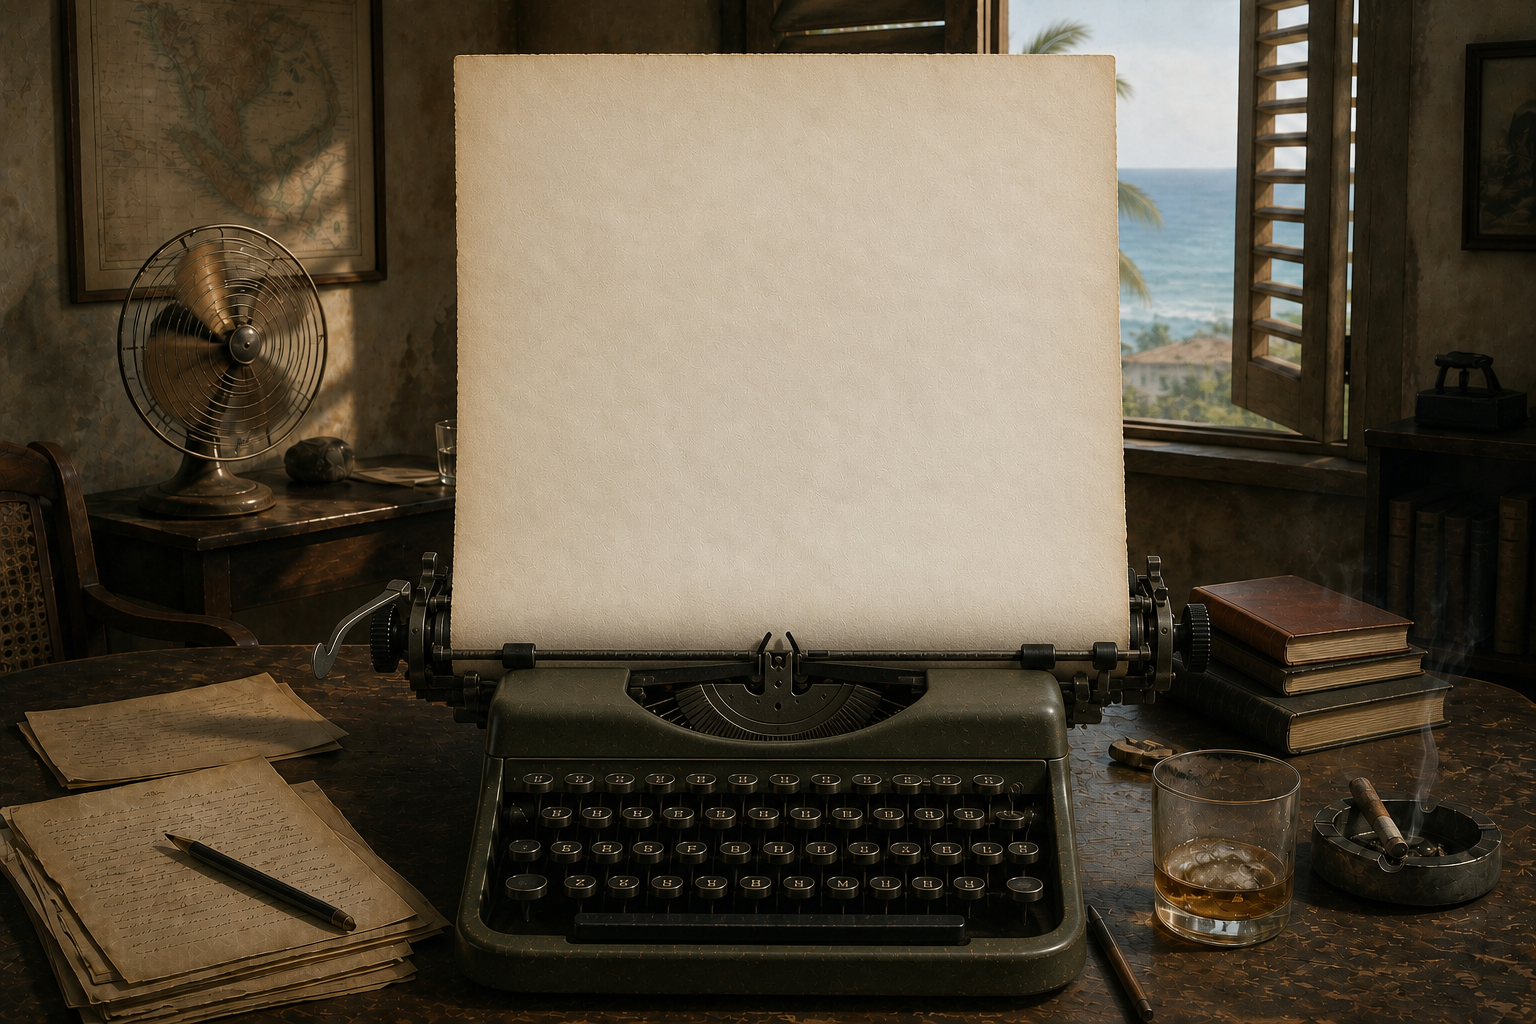
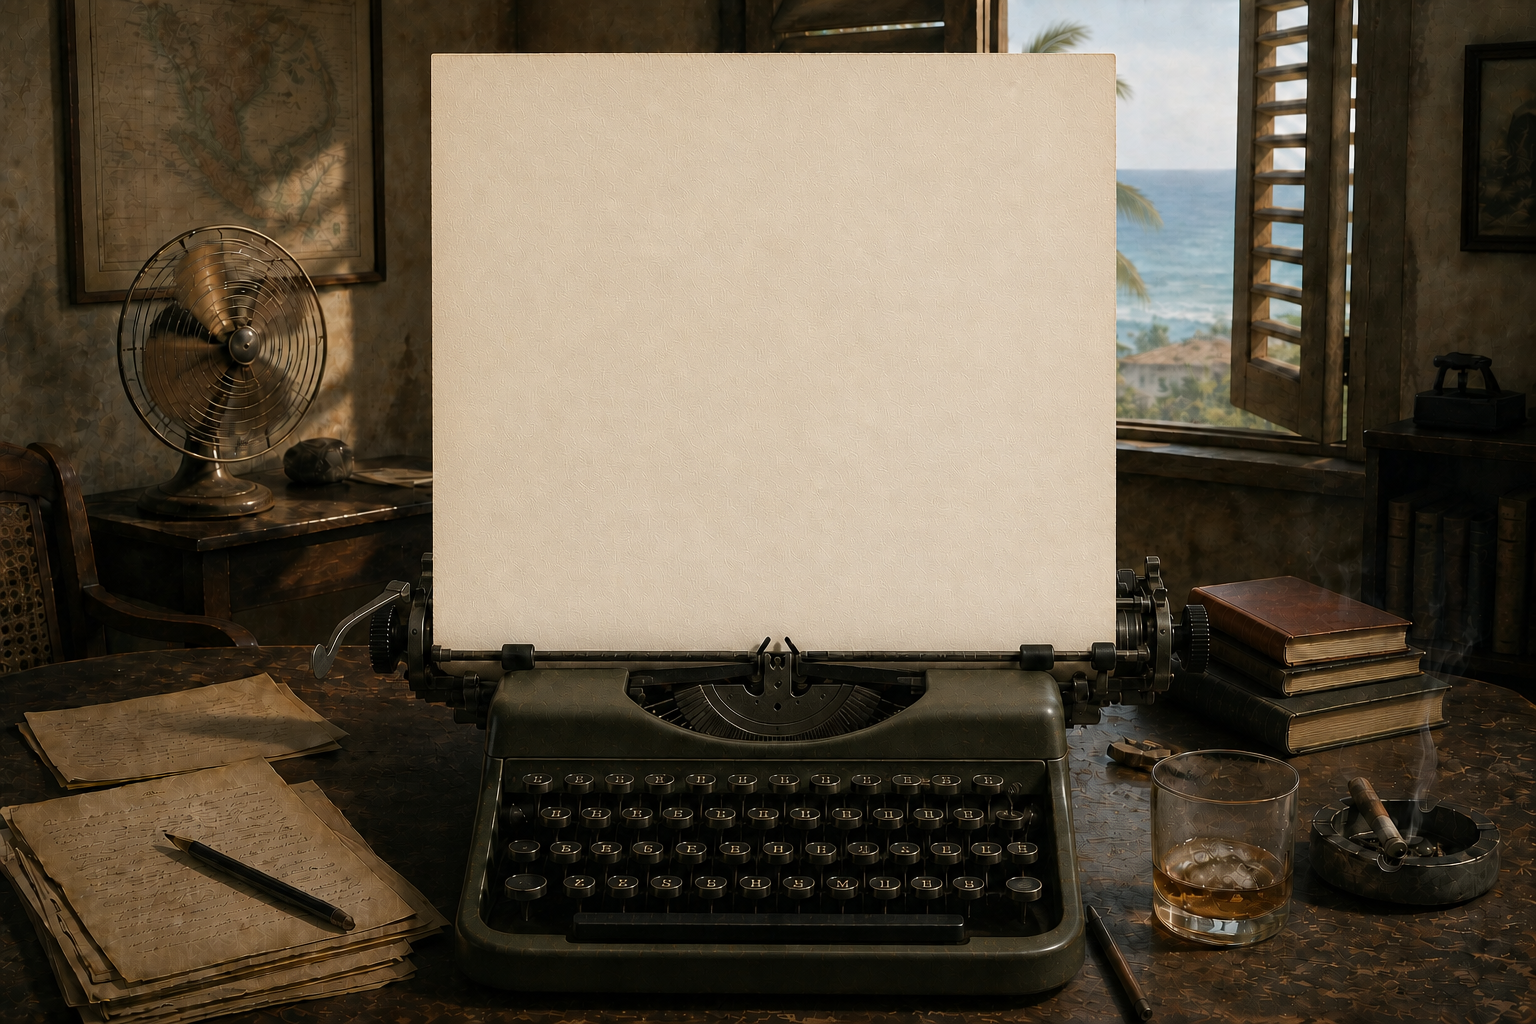
Refine immersive writing worlds

diff --git a/Sources/HelloWord/MainViewController.swift b/Sources/HelloWord/MainViewController.swift
@@ -97,6 +97,11 @@ final class MainViewController: NSViewController, NSTextViewDelegate, NSWindowDe
 
     override func viewDidAppear() {
         super.viewDidAppear()
+        // Applying the first room before the window has real bounds can leave the
+        // backdrop's display pass showing its construction-time placeholder.
+        // Re-assert it now that the window is visible, without touching the document.
+        applyTheme(currentTheme.id, restyleText: false)
+        backdrop.needsDisplay = true
         view.window?.makeFirstResponder(textView)
         if hasShownSplash {
             revealHUD(for: 4.5)
@@ -398,7 +403,7 @@ final class MainViewController: NSViewController, NSTextViewDelegate, NSWindowDe
     }
 
     private func prepareThemedMenu(_ menu: NSMenu, minimumWidth: CGFloat = 272) {
-        let dark = [.dos, .library, .spaceAge, .cyberdeck, .hell].contains(currentTheme.id)
+        let dark = [.dos, .spaceAge, .cyberdeck, .hell].contains(currentTheme.id)
         menu.appearance = NSAppearance(named: dark ? .darkAqua : .aqua)
         menu.minimumWidth = minimumWidth
         for item in menu.items {
@@ -653,7 +658,7 @@ final class MainViewController: NSViewController, NSTextViewDelegate, NSWindowDe
         let shadow = NSShadow()
         shadow.shadowOffset = .zero
         switch id {
-        case .library, .spaceAge, .hell:
+        case .spaceAge, .hell:
             shadow.shadowColor = NSColor.black.withAlphaComponent(0.86)
             shadow.shadowBlurRadius = 5
             return shadow
@@ -672,7 +677,7 @@ final class MainViewController: NSViewController, NSTextViewDelegate, NSWindowDe
         glassControl.isHidden = currentTheme.id != .liquidGlass
 
         let pixel = currentTheme.id == .mac1999 || currentTheme.id == .system95 || currentTheme.id == .dos
-        let dark = currentTheme.id == .dos || currentTheme.id == .library || currentTheme.id == .spaceAge || currentTheme.id == .cyberdeck || currentTheme.id == .hell
+        let dark = currentTheme.id == .dos || currentTheme.id == .spaceAge || currentTheme.id == .cyberdeck || currentTheme.id == .hell
         hud.appearance = NSAppearance(named: dark ? .darkAqua : .aqua)
         hud.blendingMode = currentTheme.id == .liquidGlass ? .behindWindow : .withinWindow
         hud.state = .active
@@ -710,10 +715,10 @@ final class MainViewController: NSViewController, NSTextViewDelegate, NSWindowDe
             border = NSColor(calibratedRed: 0.25, green: 0.12, blue: 0.045, alpha: 1)
             buttonFill = NSColor(calibratedRed: 0.94, green: 0.86, blue: 0.68, alpha: 1)
         case .library:
-            foreground = NSColor(calibratedRed: 1, green: 0.78, blue: 0.36, alpha: 1)
-            panel = NSColor(calibratedRed: 0.035, green: 0.105, blue: 0.068, alpha: 0.93)
-            border = foreground.withAlphaComponent(0.50)
-            buttonFill = NSColor(calibratedRed: 0.08, green: 0.20, blue: 0.13, alpha: 1)
+            foreground = NSColor(calibratedRed: 0.20, green: 0.12, blue: 0.06, alpha: 1)
+            panel = NSColor(calibratedRed: 0.91, green: 0.79, blue: 0.57, alpha: 0.91)
+            border = NSColor(calibratedRed: 0.43, green: 0.27, blue: 0.12, alpha: 0.76)
+            buttonFill = NSColor(calibratedRed: 0.97, green: 0.89, blue: 0.72, alpha: 0.96)
         case .spaceAge:
             foreground = NSColor(calibratedRed: 1, green: 0.72, blue: 0.28, alpha: 1)
             panel = NSColor(calibratedRed: 0.035, green: 0.12, blue: 0.15, alpha: 0.94)
@@ -1342,10 +1347,30 @@ final class MainViewController: NSViewController, NSTextViewDelegate, NSWindowDe
     private func updateEditorVerticalBounds() {
         guard let top = editorTopConstraint, let bottom = editorBottomConstraint else { return }
         if currentTheme.id == .typewriter {
-            // The editor is clipped to the real sheet held in the platen. It cannot
-            // descend into the keys or float above the paper when the window resizes.
-            top.constant = max(54, backdrop.bounds.height * 0.09)
-            bottom.constant = -max(250, backdrop.bounds.height * 0.39)
+            // The art is aspect-filled, so its vertical crop changes with the window.
+            // Map the upright paper rectangle from the 1536 x 1024 source into the
+            // visible crop, then keep the editor just inside the actual sheet.
+            let targetWidth = max(1, backdrop.bounds.width)
+            let targetHeight = max(1, backdrop.bounds.height)
+            let targetAspect = targetWidth / targetHeight
+            let sourceWidth: CGFloat = 1536
+            let sourceHeight: CGFloat = 1024
+            let sourceAspect = sourceWidth / sourceHeight
+            var visibleOriginY: CGFloat = 0
+            var visibleHeight = sourceHeight
+            if sourceAspect < targetAspect {
+                visibleHeight = sourceWidth / targetAspect
+                visibleOriginY = (sourceHeight - visibleHeight) * 0.5
+            }
+
+            // Source coordinates are AppKit-style here (origin at bottom-left).
+            let paperBottom: CGFloat = 374
+            let paperTop: CGFloat = 971
+            let mappedBottom = (paperBottom - visibleOriginY) / visibleHeight * targetHeight
+            let mappedTop = (paperTop - visibleOriginY) / visibleHeight * targetHeight
+            let safeEdge: CGFloat = 8
+            top.constant = max(0, targetHeight - mappedTop) + safeEdge
+            bottom.constant = -(max(0, mappedBottom) + safeEdge)
         } else {
             top.constant = 42
             bottom.constant = -42
@@ -1558,12 +1583,12 @@ private struct EraMenuPalette {
             )
         case .library:
             return EraMenuPalette(
-                panel: NSColor(calibratedRed: 0.025, green: 0.075, blue: 0.050, alpha: 1),
-                hover: NSColor(calibratedRed: 0.12, green: 0.28, blue: 0.16, alpha: 1),
-                text: NSColor(calibratedRed: 0.96, green: 0.86, blue: 0.61, alpha: 1),
-                hoverText: NSColor(calibratedRed: 1, green: 0.91, blue: 0.68, alpha: 1),
-                accent: NSColor(calibratedRed: 0.92, green: 0.65, blue: 0.25, alpha: 1),
-                border: NSColor(calibratedRed: 0.52, green: 0.35, blue: 0.13, alpha: 0.82)
+                panel: NSColor(calibratedRed: 0.95, green: 0.87, blue: 0.70, alpha: 1),
+                hover: NSColor(calibratedRed: 0.48, green: 0.31, blue: 0.14, alpha: 1),
+                text: NSColor(calibratedRed: 0.19, green: 0.115, blue: 0.060, alpha: 1),
+                hoverText: NSColor(calibratedRed: 1, green: 0.95, blue: 0.82, alpha: 1),
+                accent: NSColor(calibratedRed: 0.47, green: 0.27, blue: 0.09, alpha: 1),
+                border: NSColor(calibratedRed: 0.43, green: 0.27, blue: 0.12, alpha: 0.82)
             )
         case .spaceAge:
             return EraMenuPalette(
@@ -1606,11 +1631,12 @@ private struct EraMenuPalette {
 }
 
 private final class EraMenuItemView: NSView {
+    private static weak var activeHover: EraMenuItemView?
     private weak var item: NSMenuItem?
     private let theme: WritingTheme
     private let palette: EraMenuPalette
     private var tracking: NSTrackingArea?
-    private var isHovered = false {
+    fileprivate var isHovered = false {
         didSet { needsDisplay = true }
     }
     var onInvoke: ((NSMenuItem) -> Void)?
@@ -1630,16 +1656,30 @@ private final class EraMenuItemView: NSView {
     override func updateTrackingAreas() {
         super.updateTrackingAreas()
         if let tracking { removeTrackingArea(tracking) }
-        let next = NSTrackingArea(rect: bounds, options: [.mouseEnteredAndExited, .activeAlways], owner: self, userInfo: nil)
+        let next = NSTrackingArea(rect: bounds, options: [.mouseEnteredAndExited, .activeInKeyWindow, .inVisibleRect], owner: self, userInfo: nil)
         addTrackingArea(next)
         tracking = next
     }
 
-    override func mouseEntered(with event: NSEvent) { isHovered = true }
-    override func mouseExited(with event: NSEvent) { isHovered = false }
+    override func viewDidMoveToSuperview() {
+        super.viewDidMoveToSuperview()
+        if superview == nil { clearHover() }
+    }
+
+    override func mouseEntered(with event: NSEvent) {
+        guard Self.activeHover !== self else { return }
+        Self.activeHover?.isHovered = false
+        Self.activeHover = self
+        isHovered = true
+    }
+
+    override func mouseExited(with event: NSEvent) {
+        clearHover()
+    }
 
     override func mouseUp(with event: NSEvent) {
         guard let item, item.isEnabled else { return }
+        clearHover()
         if let onInvoke {
             onInvoke(item)
             return
@@ -1647,6 +1687,11 @@ private final class EraMenuItemView: NSView {
         guard let action = item.action else { return }
         item.menu?.cancelTracking()
         _ = NSApp.sendAction(action, to: item.target, from: item)
+    }
+
+    private func clearHover() {
+        isHovered = false
+        if Self.activeHover === self { Self.activeHover = nil }
     }
 
     override func draw(_ dirtyRect: NSRect) {

diff --git a/Sources/HelloWord/BackdropView.swift b/Sources/HelloWord/BackdropView.swift
@@ -205,6 +205,7 @@ final class BackdropView: NSView {
     // MARK: - Complete writing worlds
 
     private func drawCalm() {
+        if drawWorldArt(named: "Still") { return }
         let night = NSColor(calibratedRed: 0.16, green: 0.23, blue: 0.27, alpha: 1)
         let dawn = NSColor(calibratedRed: 0.73, green: 0.62, blue: 0.48, alpha: 1)
         let paperLight = NSColor(calibratedRed: 0.93, green: 0.84, blue: 0.68, alpha: 1)
@@ -417,7 +418,23 @@ final class BackdropView: NSView {
     }
 
     private func drawLibrary() {
-        if drawWorldArt(named: "Midnight Library") { return }
+        if drawWorldArt(named: "Midnight Library") {
+            // The room remains recognisable at the perimeter, while a quiet ivory
+            // atmosphere keeps shelves and furniture from competing with prose.
+            NSColor(calibratedRed: 1, green: 0.965, blue: 0.88, alpha: 0.11).setFill()
+            bounds.fill()
+            let writingAir = NSRect(
+                x: bounds.width * 0.18,
+                y: bounds.height * 0.055,
+                width: bounds.width * 0.64,
+                height: bounds.height * 0.89
+            )
+            NSGradient(colors: [
+                NSColor(calibratedRed: 1, green: 0.975, blue: 0.91, alpha: 0.20),
+                NSColor(calibratedRed: 1, green: 0.96, blue: 0.86, alpha: 0.085)
+            ])?.draw(in: writingAir, relativeCenterPosition: .zero)
+            return
+        }
         let blackGreen = NSColor(calibratedRed: 0.008, green: 0.025, blue: 0.021, alpha: 1)
         let warmWood = NSColor(calibratedRed: 0.15, green: 0.072, blue: 0.035, alpha: 1)
         NSGradient(colors: [blackGreen, warmWood, blackGreen])?.draw(in: bounds, angle: 0)
@@ -710,7 +727,12 @@ final class BackdropView: NSView {
         if let cached = worldArtCache[name] {
             image = cached
         } else {
-            guard let url = Bundle.main.url(forResource: name, withExtension: "png", subdirectory: "World Art"),
+            guard let resourcesURL = Bundle.main.resourceURL else { return false }
+            let url = resourcesURL
+                .appendingPathComponent("World Art", isDirectory: true)
+                .appendingPathComponent(name)
+                .appendingPathExtension("png")
+            guard FileManager.default.fileExists(atPath: url.path),
                   let loaded = NSImage(contentsOf: url), loaded.size.width > 0, loaded.size.height > 0 else { return false }
             worldArtCache[name] = loaded
             image = loaded

diff --git a/Sources/HelloWord/WritingTheme.swift b/Sources/HelloWord/WritingTheme.swift
@@ -142,9 +142,9 @@ extension WritingTheme {
         WritingTheme(
             id: .library,
             name: "Midnight Library",
-            subtitle: "Rain, lamplight, and books after hours",
-            textColor: NSColor(calibratedRed: 0.96, green: 0.90, blue: 0.72, alpha: 1),
-            insertionColor: NSColor(calibratedRed: 1, green: 0.72, blue: 0.30, alpha: 1),
+            subtitle: "Pale lamplight, warm shelves, and hours without edges",
+            textColor: NSColor(calibratedRed: 0.20, green: 0.125, blue: 0.068, alpha: 1),
+            insertionColor: NSColor(calibratedRed: 0.46, green: 0.235, blue: 0.075, alpha: 1),
             editorColor: .clear,
             defaultFontNames: ["Iowan Old Style", "Baskerville", "Georgia"],
             defaultFontSize: 21,

diff --git a/README.md b/README.md
@@ -44,12 +44,12 @@ Hello, Word is deliberately small in its visible behavior. You open it, choose a
 
 | World | What it is | What changes when you enter it |
 |---|---|---|
-| **Still** | A dawn landscape with open writing air and pale, receding ground. | Soft neutral typography, quiet keys and a restrained ambient bed that never fights the lower lines of text. |
+| **Still** | A misted lake before dawn, with the shore and distant hills dissolving at the edges of a quiet writing field. | Soft neutral typography, quiet keys and a restrained ambient bed that never fights the lower lines of text. |
 | **Macintosh 1999** | A complete platinum-era Mac writing machine. | Pixel details, period controls, classic computer-key sounds and warmer screen tones. |
 | **System 95** | A maximised mid-1990s PC desktop and writing window. | Squarer controls, system-grey surfaces and a distinct PC keyboard profile. |
 | **DOS Midnight** | The terminal itself rather than a terminal pasted onto a background. | Green phosphor text, scanlines, monospaced type and terse terminal controls. |
-| **Typewriter** | A solitary coastal room rendered in measured mid-century realism, with a real sheet held by platen, wood and metal. | The writing width ends at the paper; keys are mechanical, while Return performs a lever, carriage sweep, ratchet and platen stop rather than a stray electronic bell. |
-| **Midnight Library** | A warm, humane after-hours scene in the tradition of classic mid-century American narrative illustration. | Bookish typography, subdued controls, lamplight and an unusually quiet rain-bound room tone. |
+| **Typewriter** | A solitary Havana writing room rendered in measured mid-century realism, with a level, front-facing sheet held by platen, wood and metal. | The writing width and vertical editor bounds stay inside the real paper; keys are mechanical, while Return performs a lever, carriage sweep, ratchet and platen stop rather than a stray electronic bell. |
+| **Midnight Library** | A luminous two-storey reading room of pale honey wood, curving shelves and quiet architectural depth. | Dark bookish typography, warm paper-and-oak controls, lamplight and an unusually restrained room tone. |
 | **Space Age 1968** | An orbital word deck above a planetary horizon. | Console-like controls, analog-futurist color and slowly moving harmonic sound. |
 | **Cyberdeck 2088** | A rain-dark neon city wired into the page. | Cyan/magenta instrumentation, a distant skyline, hard readable mono type, cybernetic keys and a submerged analog pulse. |
 | **Hell** | A grave, painterly underworld of Pandemonium, black architecture, ember-lit stone and immeasurable depth. | Bone-colored text, low iron and cavern-din keystrokes, abyssal ambience, and an unnervingly calm road through damnation. Writing is hell; this room merely admits it. |
@@ -171,7 +171,7 @@ For anyone else who is not a coder—and, honestly, for me when I return to this
 | `Sources/HelloWord/MusicLibrary.swift` | Finds bundled ambience and user-supplied music, then loops the right track for the current room. |
 | `Sources/HelloWord/CorrectionEngine.swift` | Provides the Apple-backed and conservative local correction modes. |
 | `Sources/HelloWord/HarperCorrectionService.swift` | Talks to the bundled Harper helper for private contextual English correction. |
-| `Resources/World Art/` | Contains the original painterly Typewriter, Midnight Library and Hell environments. |
+| `Resources/World Art/` | Contains the original painterly Still, Typewriter, Midnight Library and Hell environments. |
 | `Resources/` | Contains the icon, Info.plist, ambient placeholders, world art and Harper's required license/archive. |
 | `Scripts/build-app.sh` | Compiles the Swift source, assembles the `.app`, adds resources and applies a local ad-hoc signature. |
 | `Tools/generate_placeholder_music.py` | Recreates the ten original ambient placeholders when NumPy and FFmpeg are available. |

diff --git a/CHANGELOG.md b/CHANGELOG.md
@@ -1,5 +1,12 @@
 # Changelog
 
+## Private test refinement
+
+- Rebuilt Midnight Library as a luminous, inhabitable circular reading room and retuned its typography and controls for the pale honey background.
+- Replaced Still's abstract rings and waves with a pale misted lake whose center and lower field recede behind the prose.
+- Squared and levelled the Typewriter paper while preserving the existing Havana room, and mapped the editor vertically to the visible sheet at every window aspect ratio.
+- Made themed menu hover state exclusive so a highlight cannot trail from one world choice into another.
+
 ## 0.5 — First public preview
 
 - Added native Find and Replace, Find Next/Previous and Use Selection for Find; `Command–F` now works.
